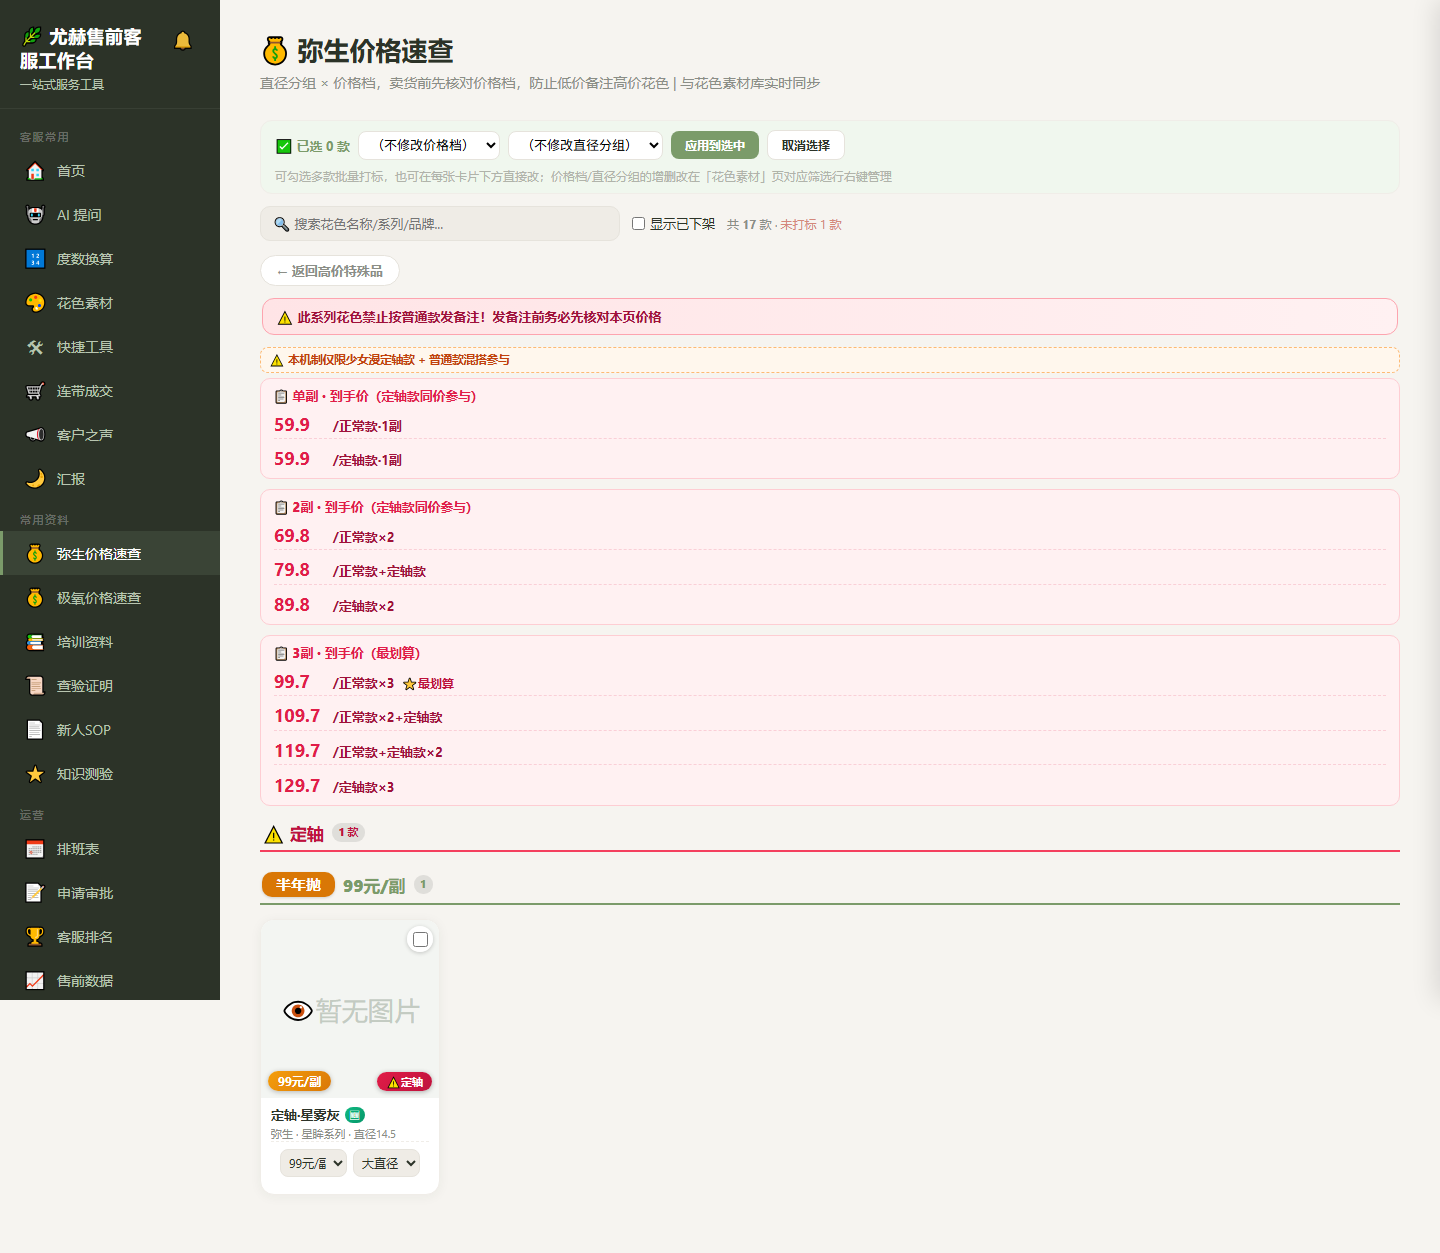
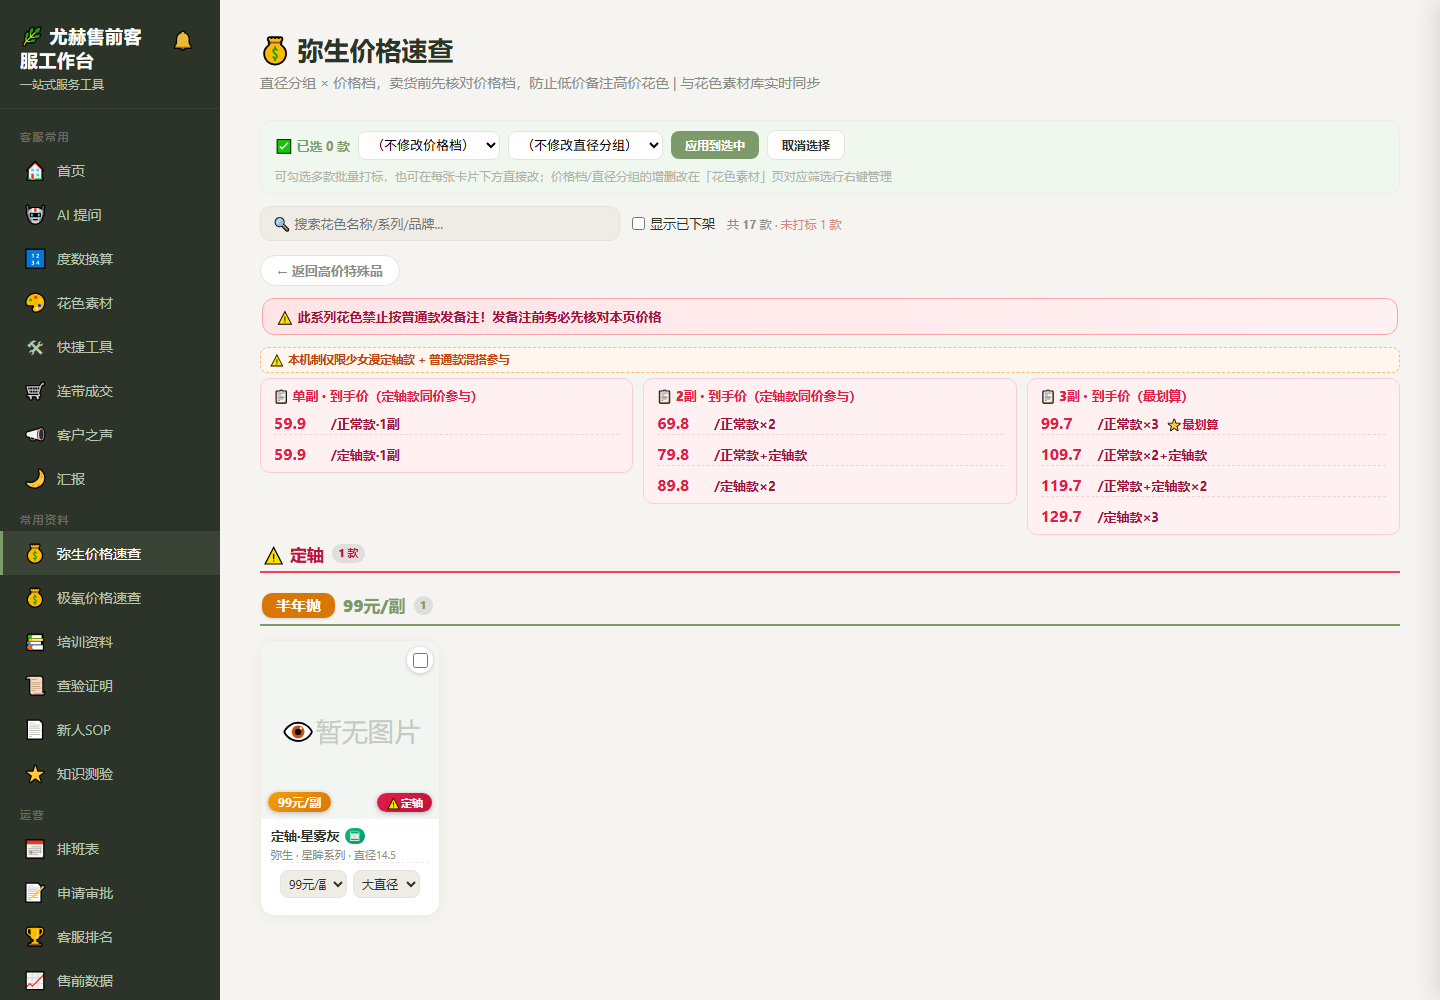
style(patterns): 特殊品机制块改自适应多列网格（宽屏并排压高度），行距/字号微缩——定轴明细页花色列表进首屏

diff --git a/outputs/smoke-pp.js b/outputs/smoke-pp.js
@@ -445,6 +445,11 @@ const wd = setTimeout(()=>{ console.log('WATCHDOG_TIMEOUT'); process.exit(3); },
     o.spAdminBarOk = bbA && bbA.style.display==='flex';
     o.spAdminChecks = document.querySelectorAll('#pp-content .pp-check').length;          // 2
     o.spQuickSelects = document.querySelectorAll('#pp-content .pp-quick select').length;  // 4
+    // 机制网格并排：明细页 .pp-mech 全部包在 .pp-mech-grid 里且实际多列（压高度，让花色进首屏）
+    const mg = document.querySelector('#pp-content .pp-mech-grid');
+    o.spMechGridWrapOk = !!mg && mg.querySelectorAll('.pp-mech').length >= 2;
+    o.spMechGridCols = mg ? getComputedStyle(mg).gridTemplateColumns.split(' ').length : 0;
+    o.spMechGridOk = o.spMechGridWrapOk && o.spMechGridCols >= 2;
     return o;
   });
 
@@ -479,9 +484,9 @@ const wd = setTimeout(()=>{ console.log('WATCHDOG_TIMEOUT'); process.exit(3); },
     optGridCols:3,
     tierCardsJiyang:4,
     spL1Cards:6, spDetailCards:2, spBadgeCount:2, spL2Cards:2,
-    spSearchOneCards:5, spAdminChecks:2, spQuickSelects:4, spMechRows:8, spTypeChips:2, spDzMechRows:17, spDzDetailCards:1, noteInputCount:3
+    spSearchOneCards:5, spAdminChecks:2, spQuickSelects:4, spMechRows:8, spTypeChips:2, spDzMechRows:17, spDzDetailCards:1, noteInputCount:3, spMechGridCols:2
   };
-  const needed = ['treeFieldsOk','l1Info','noCardsLayer1','noCheckbox','noQuick','noPatternNames','no499','batchBarHiddenCs','backBtn','l2Title','seriesInfo','l2NoPatterns','l2NoCheckbox','optGridOk','batchBarHiddenCsL2','backOk','backLabelOk','typeTitleOk','typePatterns','typeGroupsOk','csTierNoCheckbox','batchBarHiddenCsTier','backToL2Ok','diamGroupsByPrice','priceGroupsByDiam','batchBarEl','batchBarHiddenL1','batchBarHiddenL2','batchBarVisibleTier','disc69Card','discVisible','loadMoreOk','oldNavGone','aliasReset','aliasJiyangOk','navActiveJiyang','aliasMiyangOk','navActiveMiyang','aliasBarHiddenL1','quickOk','localSynced','movedOut','batchOk','selClearedAfter','searchOk','editorPriceExists','editorDgExists','editorOptions','filterFnOk','spHeadOk','spRedSubOk','spMechCardOk','spL1NoChecks','spL1NoQuick','spDzMechOk','spDzNoteOk','spBannerOk','spMechDetailOk','spTitleOk','spBadgeOk','spUnitBoxOk','spUnitPairOk','spTypeChipOk','spDzDetailOk','spDzOwnOk','noteEveryCardOk','noteLoadedOk','noteUpsertOk','noteCsViewOk','spBackLabelOk','spBatchHiddenCs','spL2CountOk','spBackToL1Ok','spZoneGoneOnSearch','spSearchOneOk','spAdminBarOk','staffResetFnOk','staffResetBtnAdmin','staffResetBtnCs'];
+  const needed = ['treeFieldsOk','l1Info','noCardsLayer1','noCheckbox','noQuick','noPatternNames','no499','batchBarHiddenCs','backBtn','l2Title','seriesInfo','l2NoPatterns','l2NoCheckbox','optGridOk','batchBarHiddenCsL2','backOk','backLabelOk','typeTitleOk','typePatterns','typeGroupsOk','csTierNoCheckbox','batchBarHiddenCsTier','backToL2Ok','diamGroupsByPrice','priceGroupsByDiam','batchBarEl','batchBarHiddenL1','batchBarHiddenL2','batchBarVisibleTier','disc69Card','discVisible','loadMoreOk','oldNavGone','aliasReset','aliasJiyangOk','navActiveJiyang','aliasMiyangOk','navActiveMiyang','aliasBarHiddenL1','quickOk','localSynced','movedOut','batchOk','selClearedAfter','searchOk','editorPriceExists','editorDgExists','editorOptions','filterFnOk','spHeadOk','spRedSubOk','spMechCardOk','spL1NoChecks','spL1NoQuick','spDzMechOk','spDzNoteOk','spBannerOk','spMechDetailOk','spTitleOk','spBadgeOk','spUnitBoxOk','spUnitPairOk','spTypeChipOk','spDzDetailOk','spDzOwnOk','noteEveryCardOk','noteLoadedOk','noteUpsertOk','noteCsViewOk','spBackLabelOk','spBatchHiddenCs','spL2CountOk','spBackToL1Ok','spZoneGoneOnSearch','spSearchOneOk','spAdminBarOk','spMechGridWrapOk','spMechGridOk','staffResetFnOk','staffResetBtnAdmin','staffResetBtnCs'];
   const numericKeys = Object.keys(numeric);
   const missing = needed.concat(numericKeys).filter(k=>!(k in out));
   const ok = missing.length===0 && needed.every(k=>out[k]===true) && numericKeys.every(k=>out[k]>=numeric[k]);

diff --git a/index.html b/index.html
@@ -789,12 +789,13 @@ body {
 .pp-special-badge{position:absolute;bottom:7px;right:7px;background:linear-gradient(135deg,#e11d48,#be123c);color:#fff;font-size:11px;font-weight:700;padding:2px 9px;border-radius:11px;z-index:2;box-shadow:0 1px 5px rgba(0,0,0,.3);white-space:nowrap;pointer-events:none}
 .pp-special-head{margin:24px 4px 12px;font-size:13px;font-weight:800;color:#be123c;padding:10px 14px;background:#fff1f2;border:1.5px solid #fecdd3;border-radius:12px}
 .pp-special-banner{margin:0 2px 12px;font-size:13px;font-weight:700;color:#9f1239;background:linear-gradient(90deg,#ffe4e6,#fff1f2);border:1px solid #fda4af;border-radius:12px;padding:9px 13px}
-/* 初音联名多盒机制（红卡/明细页复用） */
-.pp-mech{width:100%;box-sizing:border-box;text-align:left;background:#fff1f2;border:1px solid #fecdd3;border-radius:10px;padding:9px 13px;margin:2px 0 10px;display:flex;flex-direction:column;gap:7px}
+/* 初音联名多盒机制（红卡/明细页复用）：多组机制自适应并排（宽屏多列压高度，窄屏自动回退单列） */
+.pp-mech-grid{display:grid;grid-template-columns:repeat(auto-fit,minmax(230px,1fr));gap:10px;align-items:start;margin:2px 0}
+.pp-mech{width:100%;box-sizing:border-box;text-align:left;background:#fff1f2;border:1px solid #fecdd3;border-radius:10px;padding:9px 13px;margin:0;display:flex;flex-direction:column;gap:7px}
 .pp-mech-title{font-size:12.5px;font-weight:800;color:#e11d48;letter-spacing:.3px}
-.pp-mech-row{display:flex;align-items:baseline;gap:7px;font-size:13px;color:#9f1239;padding:3.5px 0;border-bottom:1px dashed rgba(225,29,72,.16)}
+.pp-mech-row{display:flex;align-items:baseline;gap:7px;font-size:12.5px;color:#9f1239;padding:2.5px 0;border-bottom:1px dashed rgba(225,29,72,.16)}
 .pp-mech-row:last-child{border-bottom:none;padding-bottom:0}
-.pp-mech-row b{font-size:18px;color:#e11d48;line-height:1.1;min-width:52px}
+.pp-mech-row b{font-size:16px;color:#e11d48;line-height:1.1;min-width:50px}
 .pp-mech-box{font-weight:700;font-size:13px}
 .pp-mech-gift{color:#be123c;font-size:12px;font-weight:600}
 .pp-mech-note{font-size:11.5px;font-weight:700;color:#c2410c;background:#fff7ed;border:1px dashed #fdba74;border-radius:8px;padding:4px 8px;margin-bottom:5px;line-height:1.4}
@@ -9825,10 +9826,11 @@ function ppTierLabel(p) {
 function ppMechHtml(sp, full) {
   if (!sp || !sp.mechs || !sp.mechs.length) return '';
   const note = sp.note ? '<div class="pp-mech-note">⚠ ' + escapeHtml(sp.note) + '</div>' : '';
-  return note + sp.mechs.map(m => '<div class="pp-mech">'
+  const groups = sp.mechs.map(m => '<div class="pp-mech">'
     + '<div class="pp-mech-title">📋 ' + escapeHtml(full ? m.title : m.short) + '</div>'
     + m.rows.map(r => '<div class="pp-mech-row"><b>' + escapeHtml(r.price) + '</b><span class="pp-mech-box">/' + escapeHtml(r.boxes) + '</span>' + (r.gift ? '<span class="pp-mech-gift">' + escapeHtml(r.gift) + '</span>' : '') + '</div>').join('')
     + '</div>').join('');
+  return note + '<div class="pp-mech-grid">' + groups + '</div>';
 }
 function renderPatternPricePage() {
   const canManage = canEdit('patterns');
